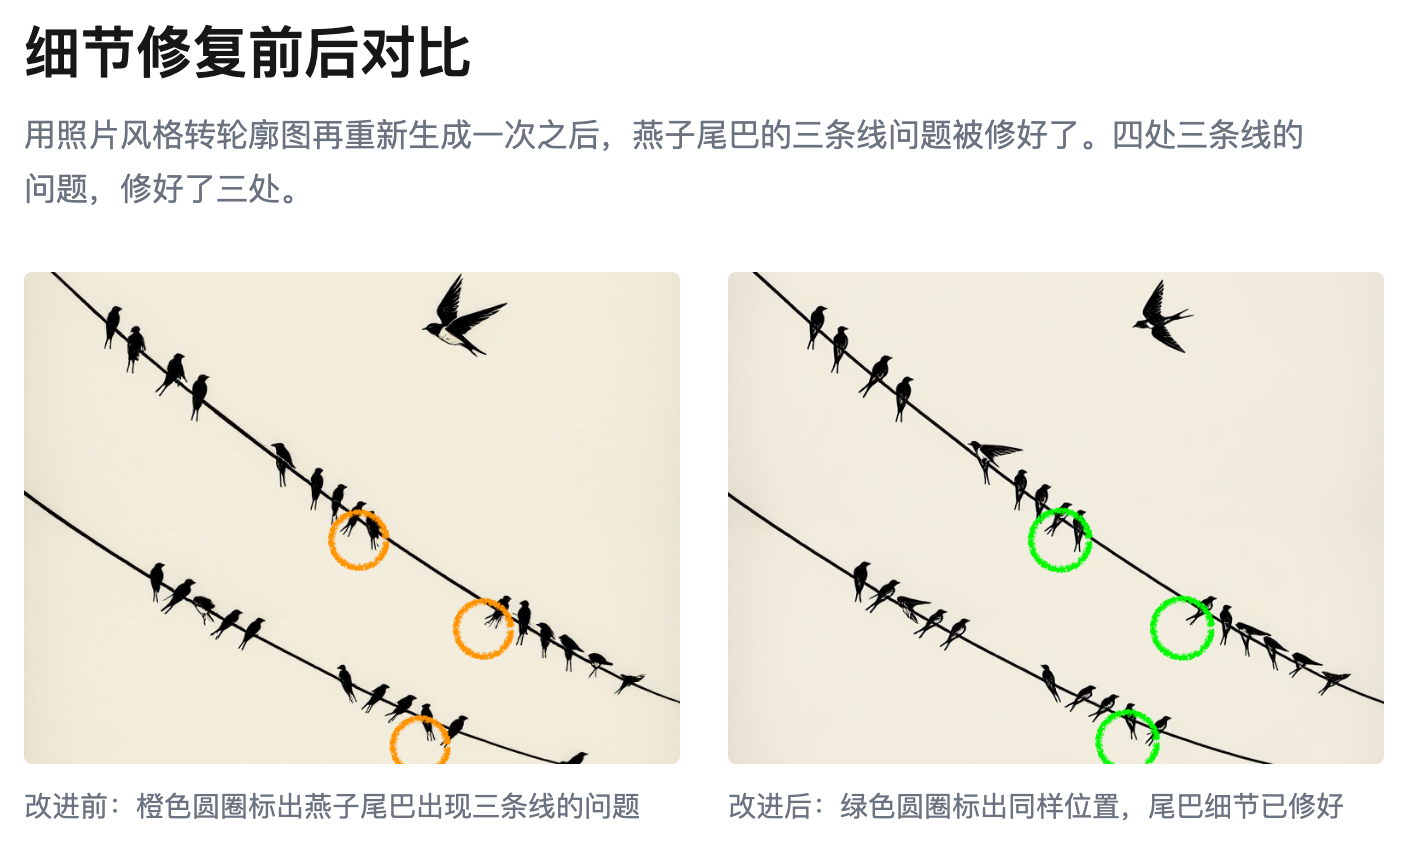
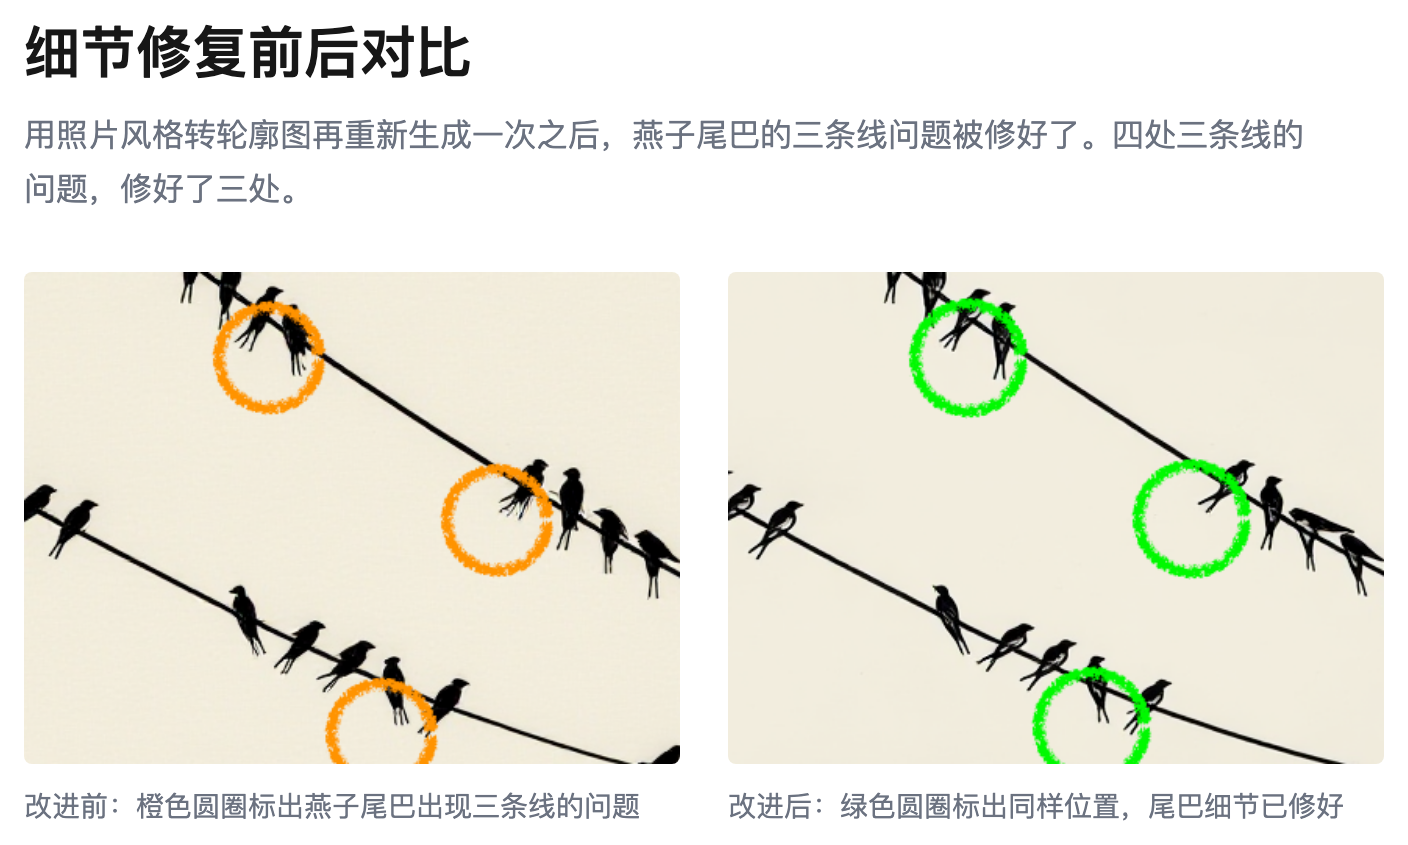
[assets] 放大细节对比图中三个圆圈标注区域，让燕子尾巴细节看得清楚
之前左右两张图都是完整宽幅构图，圆圈内的尾巴细节太小看不清。
现在从原图裁出包含三个圆圈的紧凑区域（左右使用同一裁剪坐标，
保证可比性），保持 4:3 比例、标题、说明文字和两条 caption 不变。

diff --git a/articles/2026-09-23-guide-image-with-pen/assets/pen-guide-detail-before-after.source.html b/articles/2026-09-23-guide-image-with-pen/assets/pen-guide-detail-before-after.source.html
@@ -17,13 +17,13 @@
   <div style="display: grid; grid-template-columns: repeat(3, minmax(0, 1fr)); gap: 24px;">
     <figure style="margin: 0; display: flex; flex-direction: column; gap: 10px;">
       <div style="width: 100%; aspect-ratio: 4/3; border-radius: 4px; overflow: hidden;">
-        <img src="file:///Users/husongtao/Projects/newsletters/articles/2026-09-23-guide-image-with-pen/close-look-on-tails.png" style="width: 100%; height: 100%; object-fit: cover; object-position: center; display: block;">
+        <img src="file:///Users/husongtao/Projects/newsletters/articles/2026-09-23-guide-image-with-pen/assets/pen-guide-detail-before-after-crop-before.png" style="width: 100%; height: 100%; object-fit: cover; object-position: center; display: block;">
       </div>
       <figcaption style="font-size: 14px; color: #6B7280; line-height: 1.6;">改进前：橙色圆圈标出燕子尾巴出现三条线的问题</figcaption>
     </figure>
     <figure style="margin: 0; display: flex; flex-direction: column; gap: 10px;">
       <div style="width: 100%; aspect-ratio: 4/3; border-radius: 4px; overflow: hidden;">
-        <img src="file:///Users/husongtao/Projects/newsletters/articles/2026-09-23-guide-image-with-pen/refined-detail-circle.png" style="width: 100%; height: 100%; object-fit: cover; object-position: center; display: block;">
+        <img src="file:///Users/husongtao/Projects/newsletters/articles/2026-09-23-guide-image-with-pen/assets/pen-guide-detail-before-after-crop-after.png" style="width: 100%; height: 100%; object-fit: cover; object-position: center; display: block;">
       </div>
       <figcaption style="font-size: 14px; color: #6B7280; line-height: 1.6;">改进后：绿色圆圈标出同样位置，尾巴细节已修好</figcaption>
     </figure>
